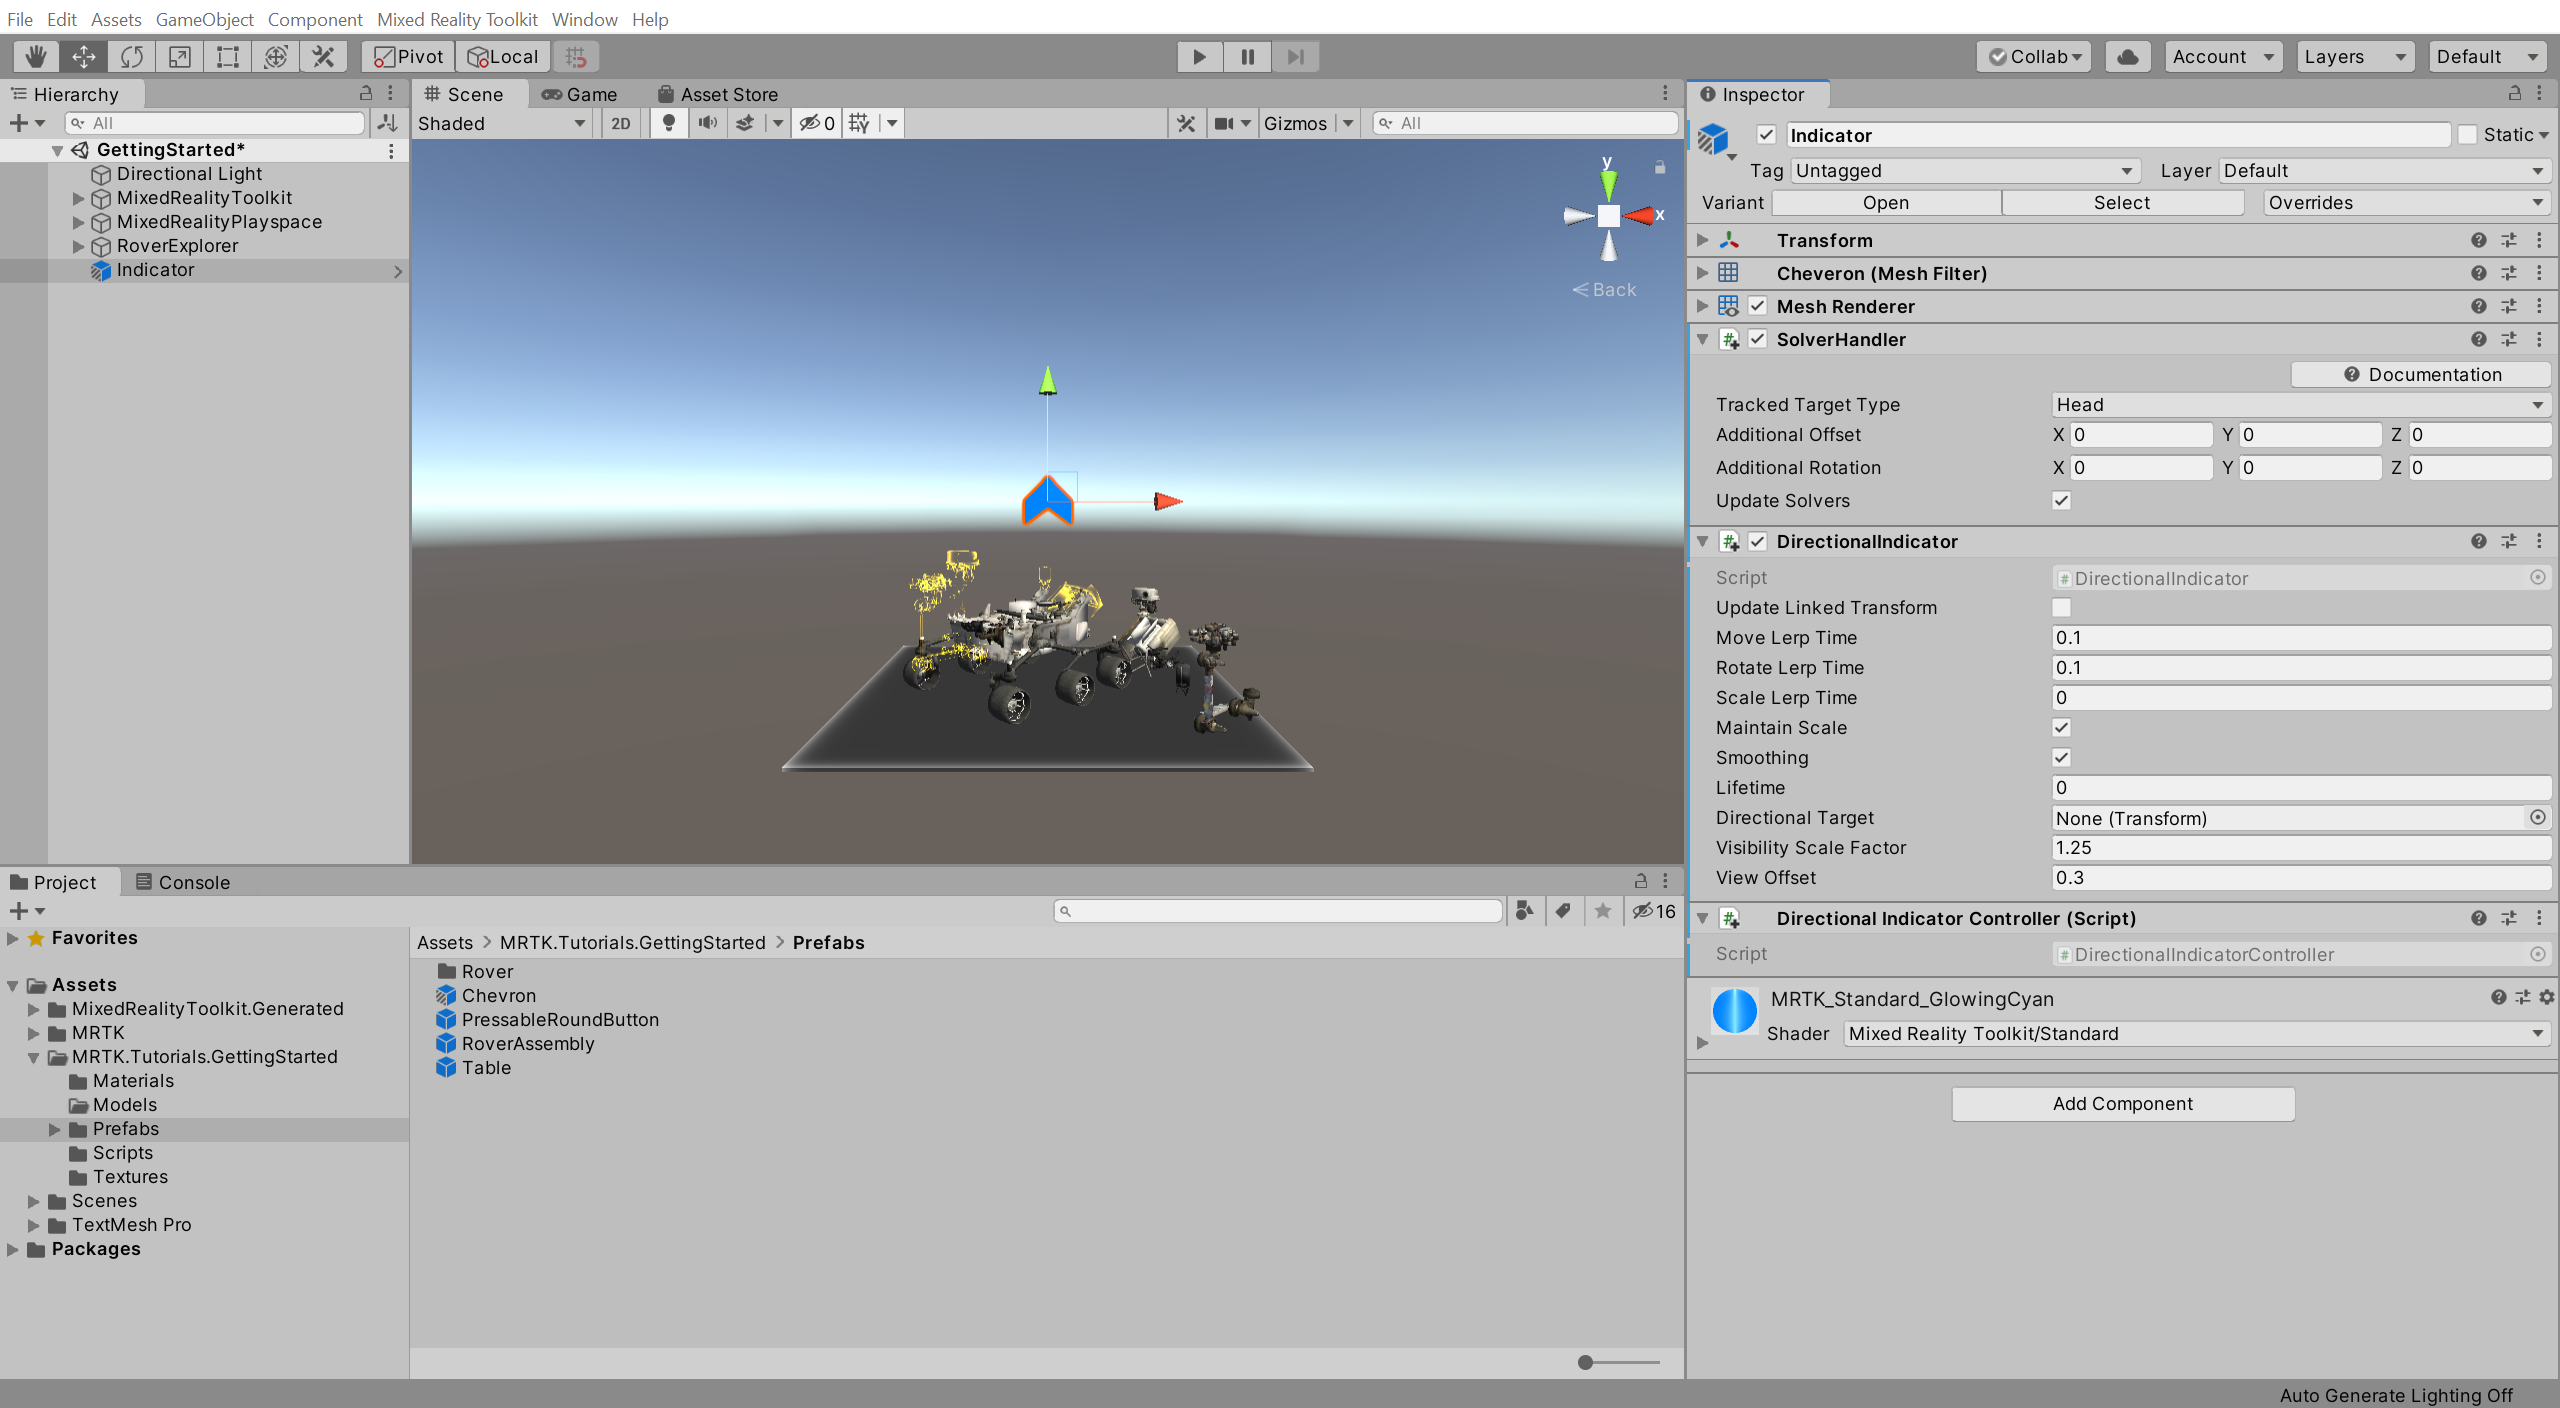
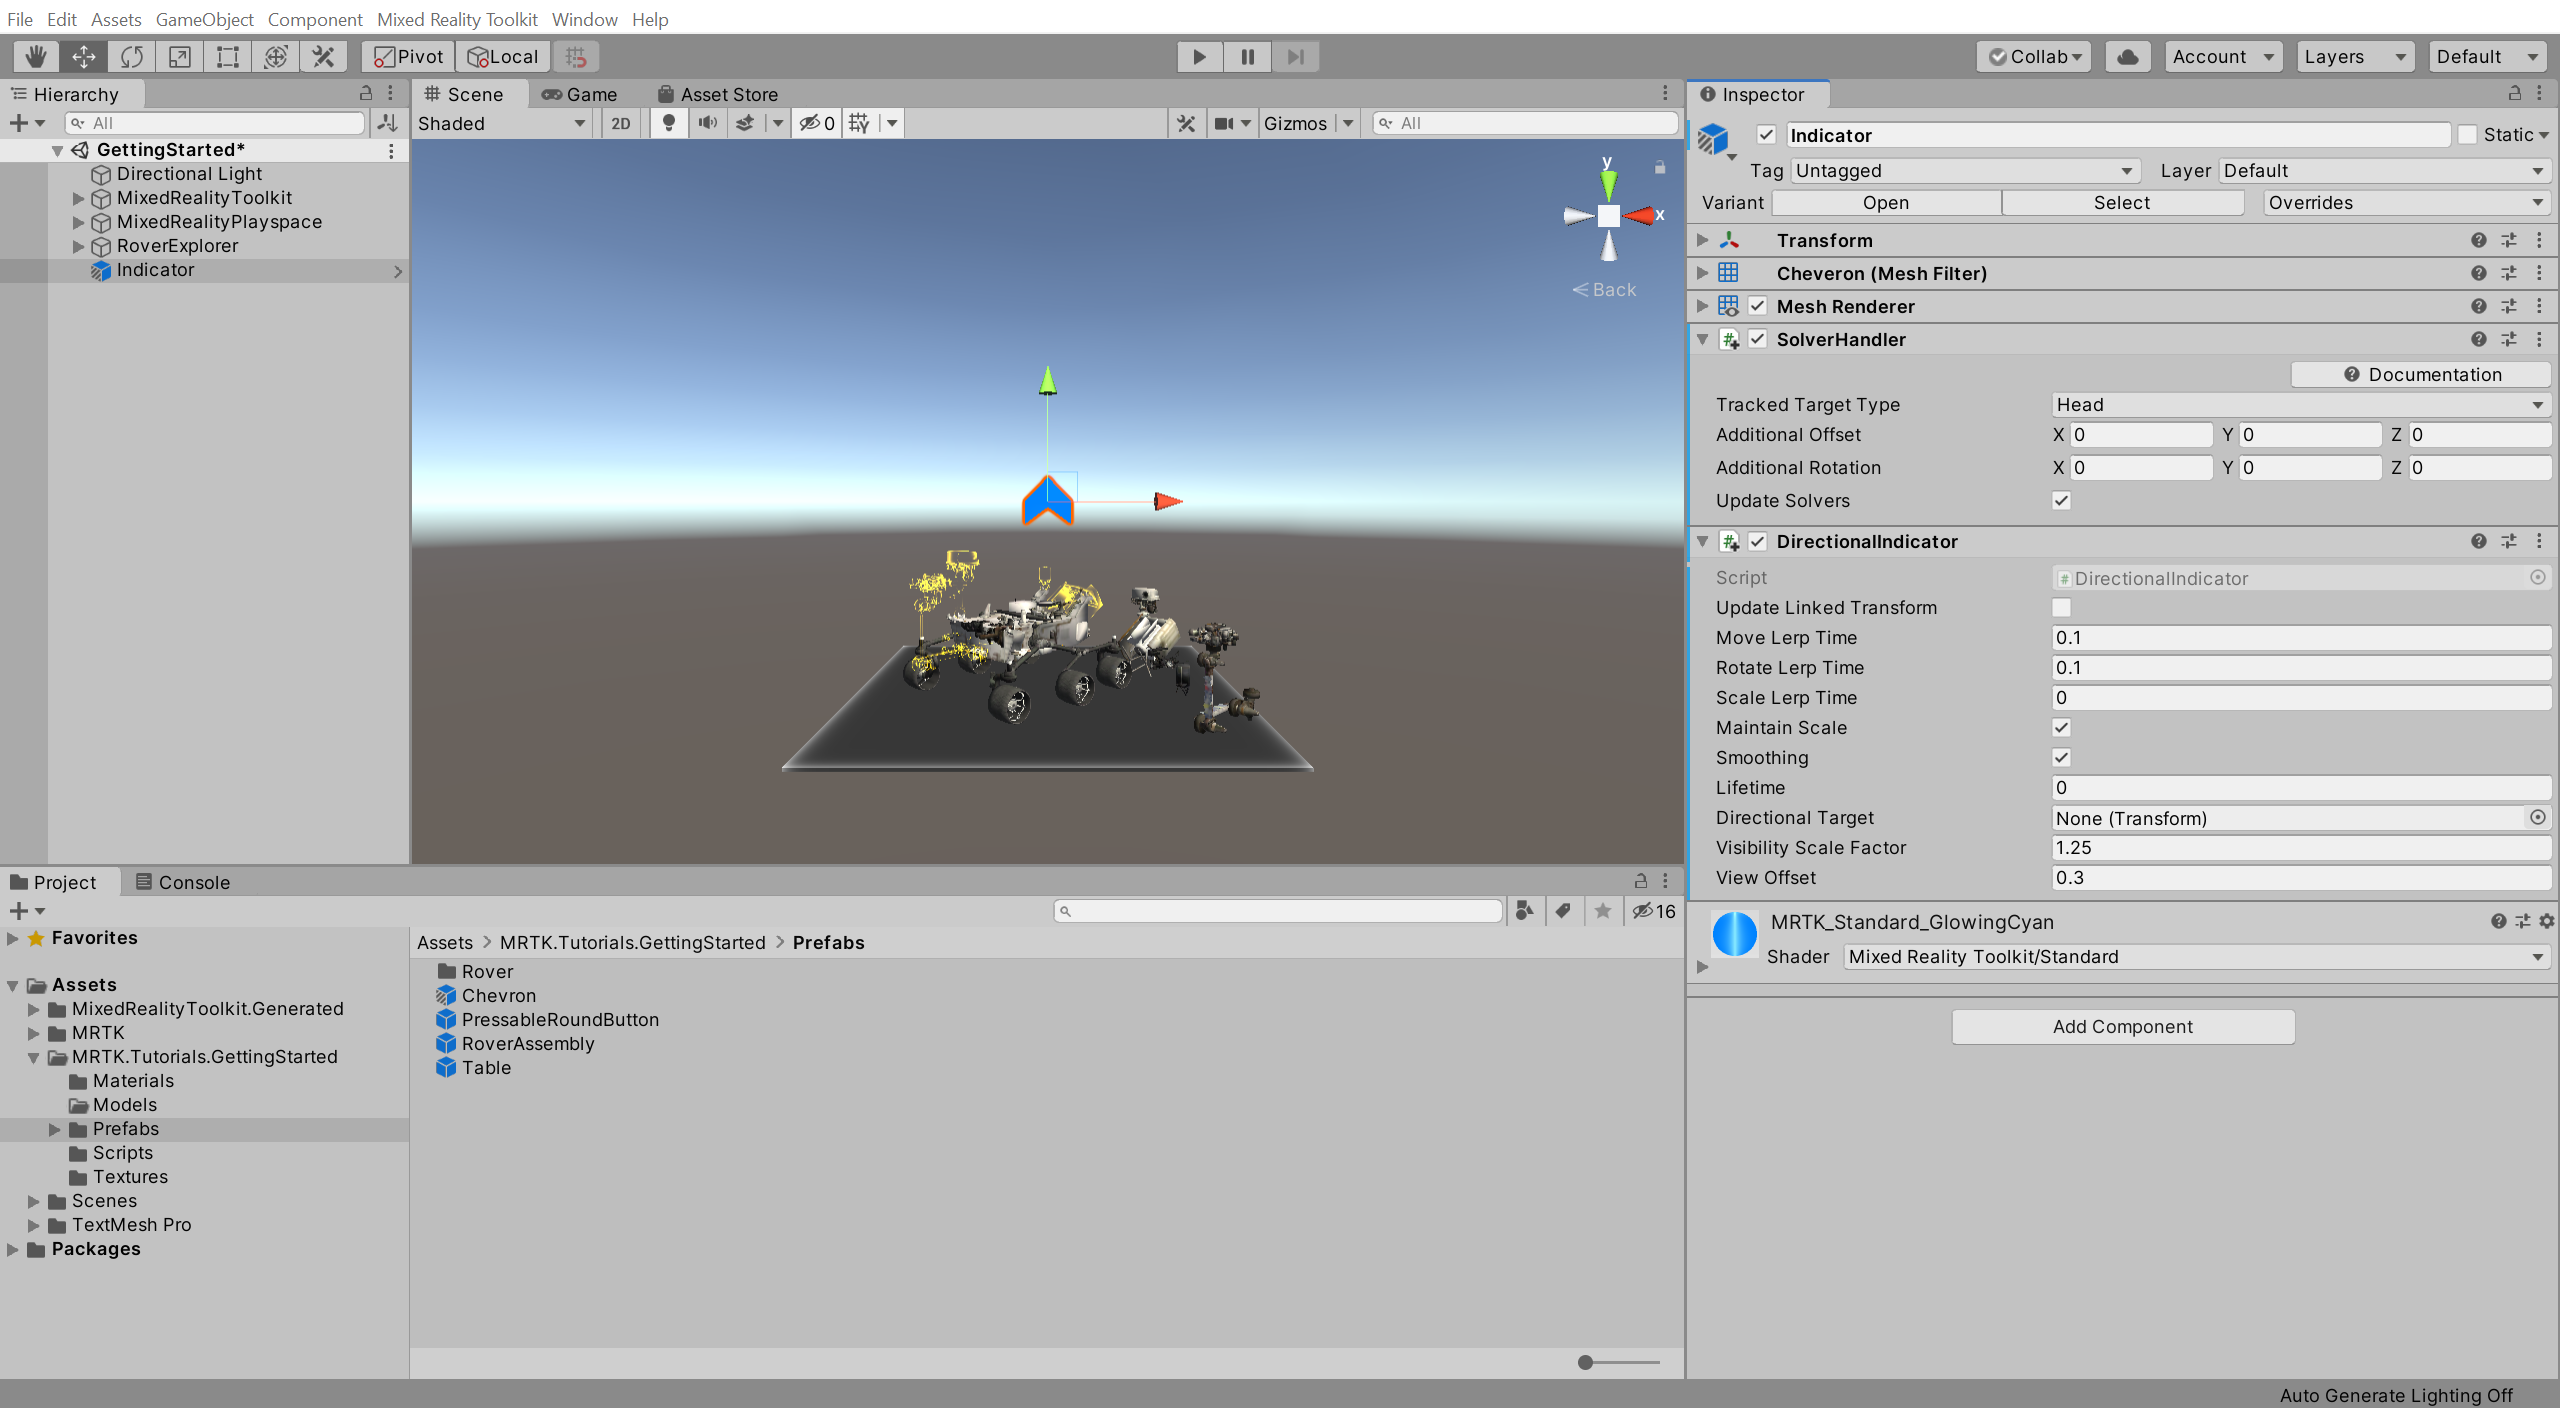
Closes MicrosoftDocs/mixed-reality#12

Changed region(s): [[0.6562, 0.625, 1.0, 0.8125]]

diff --git a/mixed-reality-docs/mr-learning-base-06.md b/mixed-reality-docs/mr-learning-base-06.md
@@ -101,7 +101,10 @@ Rename the first button to **Indicator**, then in the Inspector window, configur
 
 ![mr-learning-base](images/mr-learning-base/base-06-section2-step1-3.png)
 
-In the Hierarchy window, select the **Indicator** object, then in the Inspector window, uncheck the checkbox next to its name to make it inactive by default:
+In the Hierarchy window, select the **Indicator** object, then in the Inspector window:
+
+* Uncheck the checkbox next to its name to make it inactive by default
+* Use the **Add Component** button to add the **Directional Indicator Controller (Script)** component
 
 ![mr-learning-base](images/mr-learning-base/base-06-section2-step1-4.png)
 
@@ -121,7 +124,7 @@ Rename the second button to **TapToPlace**, then in the Inspector window, config
 In the Hierarchy window, select the **RoverAssembly** object, then in the Inspector window, configure the **Tap To Place (Script)** component as follows:
 
 * Uncheck the checkbox next to its name to make it inactive by default
-* In the **On Placing Started ()** event section, click the **+** icon to add a new event:
+* In the **On Placing Stopped ()** event section, click the **+** icon to add a new event
 * Assign the RoverExplorer > **RoverAssembly** object to the **None (Object)** field
 * From the **No Function** dropdown, select **TapToPlace** > **bool Enabled** to update this property value when the event is triggered
 * Verify that the argument checkbox is **unchecked**

diff --git a/mixed-reality-docs/mr-learning-base-05.md b/mixed-reality-docs/mr-learning-base-05.md
@@ -41,7 +41,7 @@ In the Project window, navigate to the **Assets** > **MRTK.Tutorials.GettingStar
 > [!TIP]
 > If you find that the camera or any other icons in your scene are hiding the objects or are distracting, you can hide these by <a href="https://docs.unity3d.com/2019.1/Documentation/Manual/GizmosMenu.html" target="_blank">toggling the Gizmos</a> to the off position, as shown in the image above. To learn more about the Gizmos menu and how you can use it to optimize your scene view, you can refer to Unity's <a href="https://docs.unity3d.com/Manual/GizmosMenu.html" target="_blank">Gizmos menu</a> documentation.
 
-Rename the newly added Chevron object **Indicator**, then in the Inspector window, use the **Add Component** button to add the **DirectionalIndicator** and the **Directional Indicator Controller (Script)** component:
+Rename the newly added Chevron object **Indicator**, then in the Inspector window, use the **Add Component** button to add the **DirectionalIndicator**:
 
 ![mr-learning-base](images/mr-learning-base/base-05-section2-step1-2.png)
 
